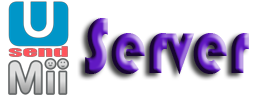
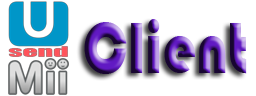
Change application name
The name will be UsendMii Client.

Changed region(s): [[0.2812, 0.1875, 1.0, 0.8438]]

diff --git a/src/program.c b/src/program.c
@@ -46,28 +46,34 @@ int _entryPoint()
     // Insert the IP adress (some code was taken from the IP Adress selector of geckiine made by brienj)
     for (;;) {
         VPADRead(0, &vpad_data, 1, &error);
-        if (vpad_data.btns_d & VPAD_BUTTON_LEFT  && selected_digit > 0) selected_digit--;
-        if (vpad_data.btns_d & VPAD_BUTTON_RIGHT && selected_digit < 3) selected_digit++;
-        if (vpad_data.btns_d & VPAD_BUTTON_UP)   IP[selected_digit] = (IP[selected_digit] < 255) ? (IP[selected_digit] + 1) : 0;
-        if (vpad_data.btns_d & VPAD_BUTTON_DOWN) IP[selected_digit] = (IP[selected_digit] >   0) ? (IP[selected_digit] - 1) : 255;
+        if (vpad_data.btns_d & VPAD_BUTTON_LEFT  && selected_digit > 0)
+            selected_digit--;
+        if (vpad_data.btns_d & VPAD_BUTTON_RIGHT && selected_digit < 3)
+            selected_digit++;
+        if (vpad_data.btns_d & VPAD_BUTTON_UP)
+            IP[selected_digit] = (IP[selected_digit] < 255) ? (IP[selected_digit] + 1) : 0;
+        if (vpad_data.btns_d & VPAD_BUTTON_DOWN)
+            IP[selected_digit] = (IP[selected_digit] >   0) ? (IP[selected_digit] - 1) : 255;
 
         // Clear the screen
         OSScreenClearBufferEx(0, 0);
         OSScreenClearBufferEx(1, 0);
         // print to DRC
-        OSScreenPutFontEx(1, 0, 0, "== RemotePad ==");
+        OSScreenPutFontEx(1, 0, 0, "== UsendMii Client ==");
         OSScreenPutFontEx(1, 0, 1, "Please insert your computer's IP adress below ");
         OSScreenPutFontEx(1, 0, 2, "(use DPAD to edit the IP adress)");
         OSScreenPutFontEx(1, 4 * selected_digit, 6, "vvv");
         snprintf(IP_str, 32, "%3d.%3d.%3d.%3d", IP[0], IP[1], IP[2], IP[3]);
         OSScreenPutFontEx(1, 0, 7, IP_str);
         OSScreenPutFontEx(1, 0, 15, "Press 'A' to confirm");
-        OSScreenPutFontEx(1, 0, 16, "Press HOME-Button to exit");
+        OSScreenPutFontEx(1, 0, 16, "Press HOME button to exit");
         // Flip buffers
         OSScreenFlipBuffersEx(0);
         OSScreenFlipBuffersEx(1);
 
-        if (vpad_data.btns_d & VPAD_BUTTON_A) break;
+        if (vpad_data.btns_d & VPAD_BUTTON_A) {
+            break;
+        }
         if (vpad_data.btns_d & VPAD_BUTTON_HOME) {
             free(IP_str);
             MEM1_free(ScreenBuffer0);
@@ -95,20 +101,20 @@ int _entryPoint()
     OSScreenClearBufferEx(1, 0);
 
     // print to TV
-    OSScreenPutFontEx(0, 0, 0, "== RemotePad ==");
+    OSScreenPutFontEx(0, 0, 0, "== UsendMii Client ==");
     OSScreenPutFontEx(0, 0, 2, msg_connected);
-    OSScreenPutFontEx(0, 0, 4, "Remember the program will not work without the");
-    OSScreenPutFontEx(0, 0, 5, "client running on your computer. ");
-    OSScreenPutFontEx(0, 0, 6, "You can get the client from goo.gl/7cvSSf");
-    OSScreenPutFontEx(0, 0, 16, "Press HOME-Button to exit.");
+    OSScreenPutFontEx(0, 0, 4, "Remember the program will not work without ");
+    OSScreenPutFontEx(0, 0, 5, "UsendMii running on your computer. ");
+    OSScreenPutFontEx(0, 0, 6, "You can get UsendMii from http://wiiubrew.org/wiki/UsendMii");
+    OSScreenPutFontEx(0, 0, 16, "Press HOME button to exit.");
 
     // print to DRC
-    OSScreenPutFontEx(1, 0, 0, "== RemotePad ==");
+    OSScreenPutFontEx(1, 0, 0, "== UsendMii Client ==");
     OSScreenPutFontEx(1, 0, 2, msg_connected);
-    OSScreenPutFontEx(1, 0, 4, "Remember the program will not work without the");
-    OSScreenPutFontEx(1, 0, 5, "client running on your computer. ");
-    OSScreenPutFontEx(1, 0, 6, "You can get the client from goo.gl/7cvSSf");
-    OSScreenPutFontEx(1, 0, 16, "Press HOME-Button to exit.");
+    OSScreenPutFontEx(1, 0, 4, "Remember the program will not work without ");
+    OSScreenPutFontEx(1, 0, 5, "UsendMii running on your computer. ");
+    OSScreenPutFontEx(1, 0, 6, "You can get UsendMii from http://wiiubrew.org/wiki/UsendMii");
+    OSScreenPutFontEx(1, 0, 16, "Press HOME button to exit.");
 
     // Flip buffers
     OSScreenFlipBuffersEx(0);
@@ -131,8 +137,9 @@ int _entryPoint()
         DCFlushRange(&vpad_data, sizeof(VPADData));
 
         // Get the status of the gamepad and insert in the message either the HOLD character for the key or the NOT PRESSED character of the key
-        for(int i = 0; i < 22; i++)
+        for(int i = 0; i < 22; i++) {
             msg_data[i] = (vpad_data.btns_h & buttons_val[i]) ? buttons_n_h[i] : buttons_n_r[i];
+        }
 
         // Send the message
         udp_printf("%s", msg_data);
@@ -141,8 +148,9 @@ int _entryPoint()
         usleep(10000); // I guess it should be enough? Make this value smaller for faster refreshing
 
         // Check for exit signal
-        if (vpad_data.btns_h & VPAD_BUTTON_HOME)
+        if (vpad_data.btns_h & VPAD_BUTTON_HOME) {
             break;
+        }
     }
 
     free(IP_ADRESS);

diff --git a/README.md b/README.md
@@ -1,5 +1,5 @@
-# UsendMii Server
-UsendMii server for Wii U
+# UsendMii Client
+UsendMii client for Wii U
 
 ## Build
 Prerequisites:
